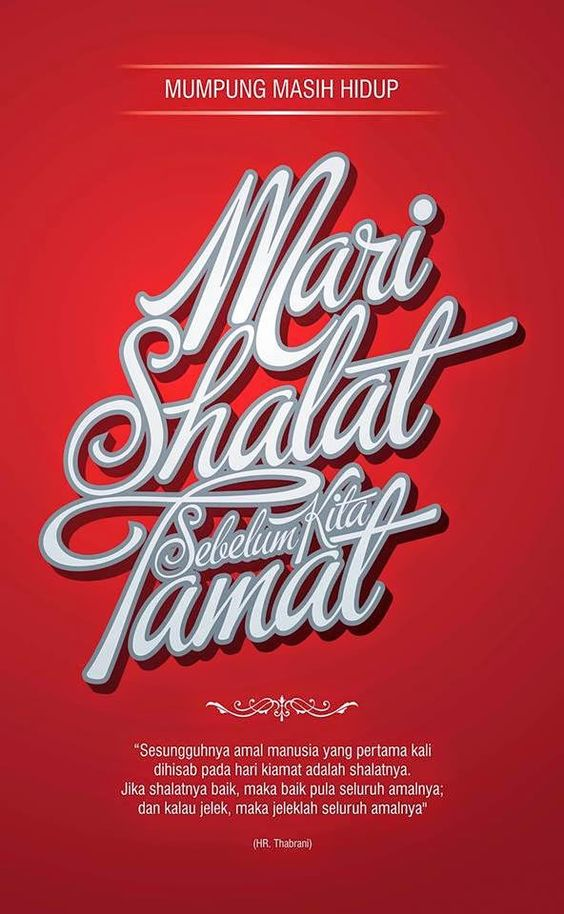
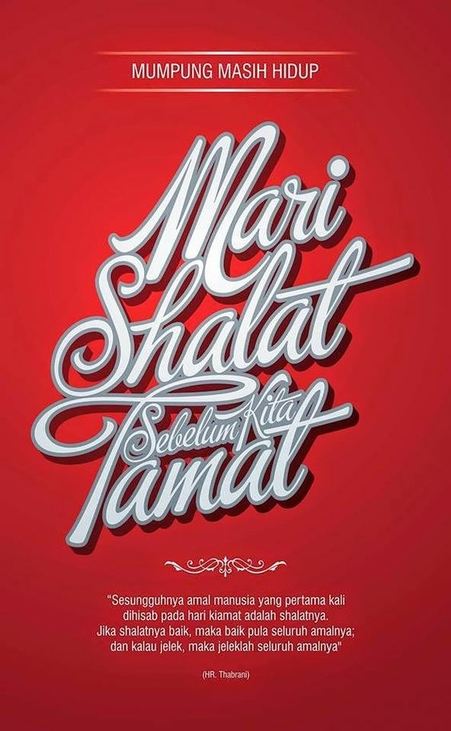
[UPDATE] btnPush on azanDialog and resize image

diff --git a/ayoshalat.py b/ayoshalat.py
@@ -85,6 +85,9 @@ class AyoShalat(QMainWindow):
         azandialog = QDialog(self,Qt.FramelessWindowHint)
         azandialog.setWindowTitle("It's time to Shalat")
         self.azanDialog = azandialog
+        btnDialog = QPushButton("", self.azanDialog)
+        btnDialog.setFlat(True)
+        btnDialog.clicked.connect(self.azanDialog.hide)
 
         # OPEN SETTING ON START
         self.open_setting()
@@ -481,19 +484,20 @@ class AyoShalat(QMainWindow):
         im_width -= 75
         im_height -= 75
         self.azanDialog.resize(im_width, im_height)
-        self.azanDialog.setStyleSheet("border-image: url('" + image_path + "') 0 0 0 0 stretch stretch;")
+        # self.azanDialog.setStyleSheet("border-image: url('" + image_path + "') 0 0 0 0 stretch stretch;")
+        # self.azanDialog.setStyleSheet("{border:white 5px solid;border-style:outline;}")
 
-        btnDialog = QPushButton("", self.azanDialog)
-        btnDialog.setGeometry(0, 0, im_width, im_height)
-        btnDialog.setStyleSheet("{border:none;border-style:outline;}")
-        btnDialog.setFlat(True)
-        btnDialog.clicked.connect(self.hideImageDialog)
+        im_width -=10
+        im_height -= 10
+
+        print('showing azan dialog')
+        btnDialog = self.azanDialog.children()[0]
+        btnDialog.setGeometry(5, 5, im_width, im_height)
+        styleBg = "border-image: url('" + image_path + "') 0 0 0 0 stretch stretch;"
+        btnDialog.setStyleSheet(styleBg)
+        # btnDialog.setStyleSheet("{border:none;border-style:outline;}")
         self.azanDialog.show()
     
-    def hideImageDialog(self):
-        self.azanDialog.hide()
-
-
     def stopAzan(self):
         try:
             self.azanpy.stop()
